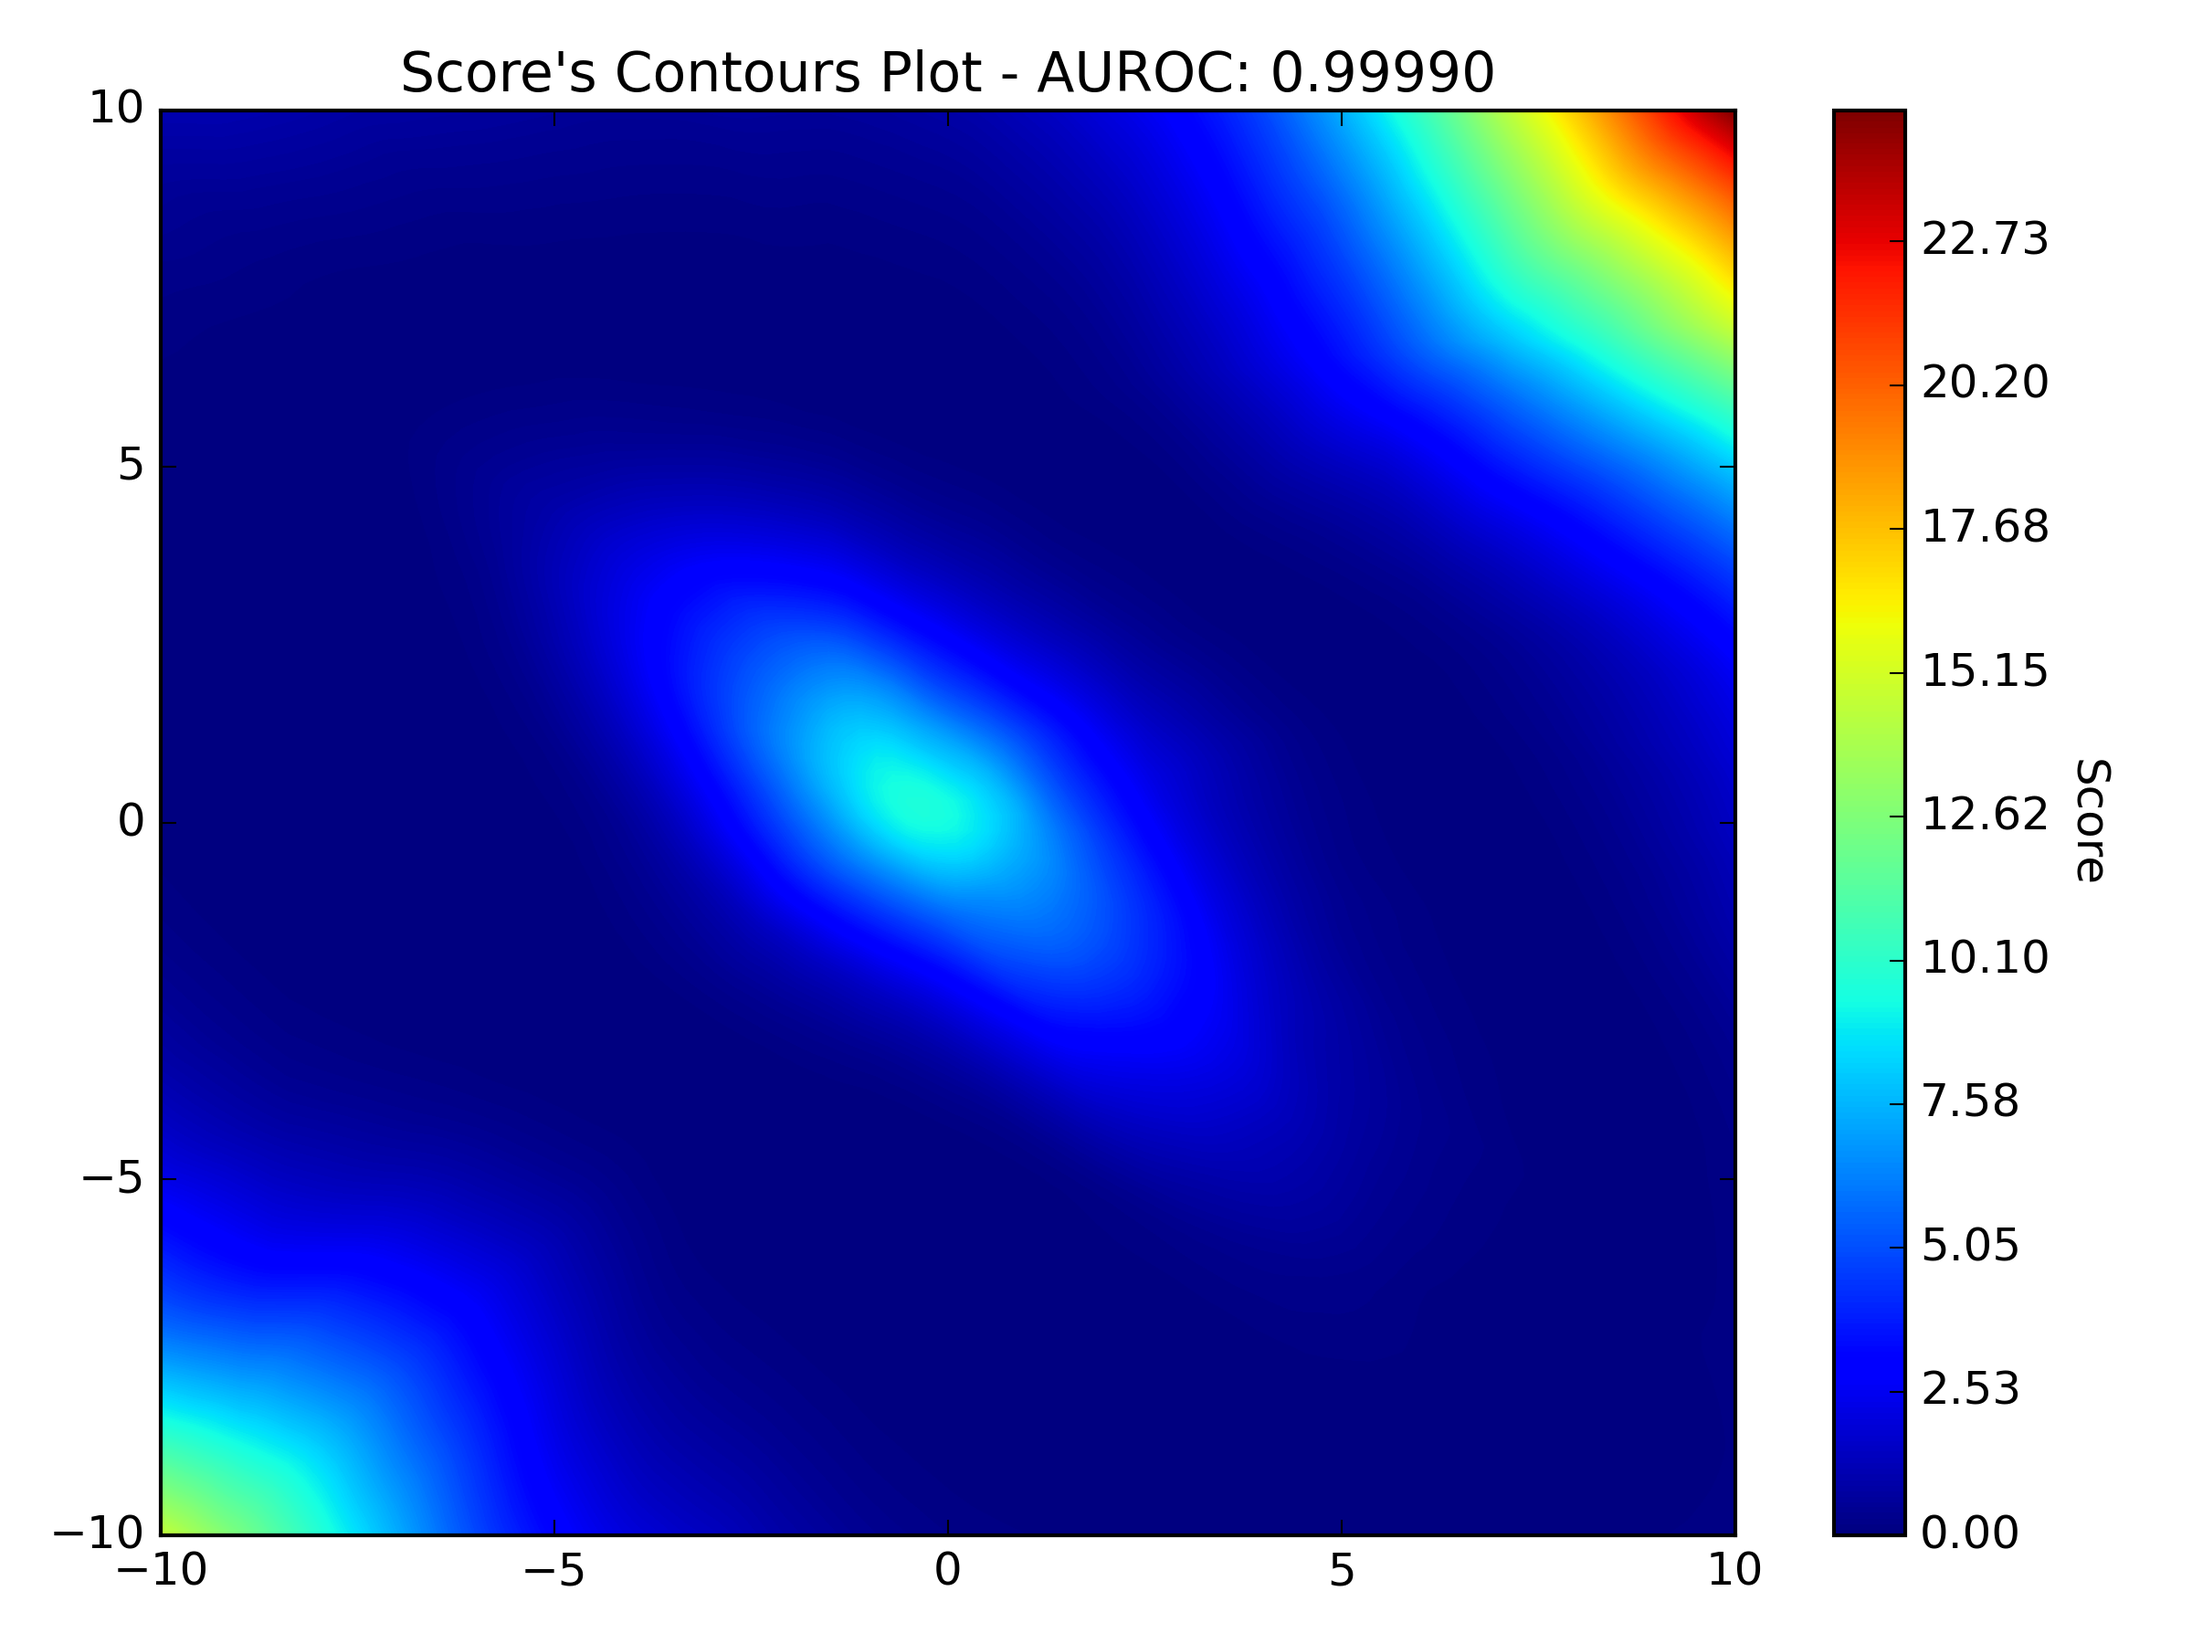
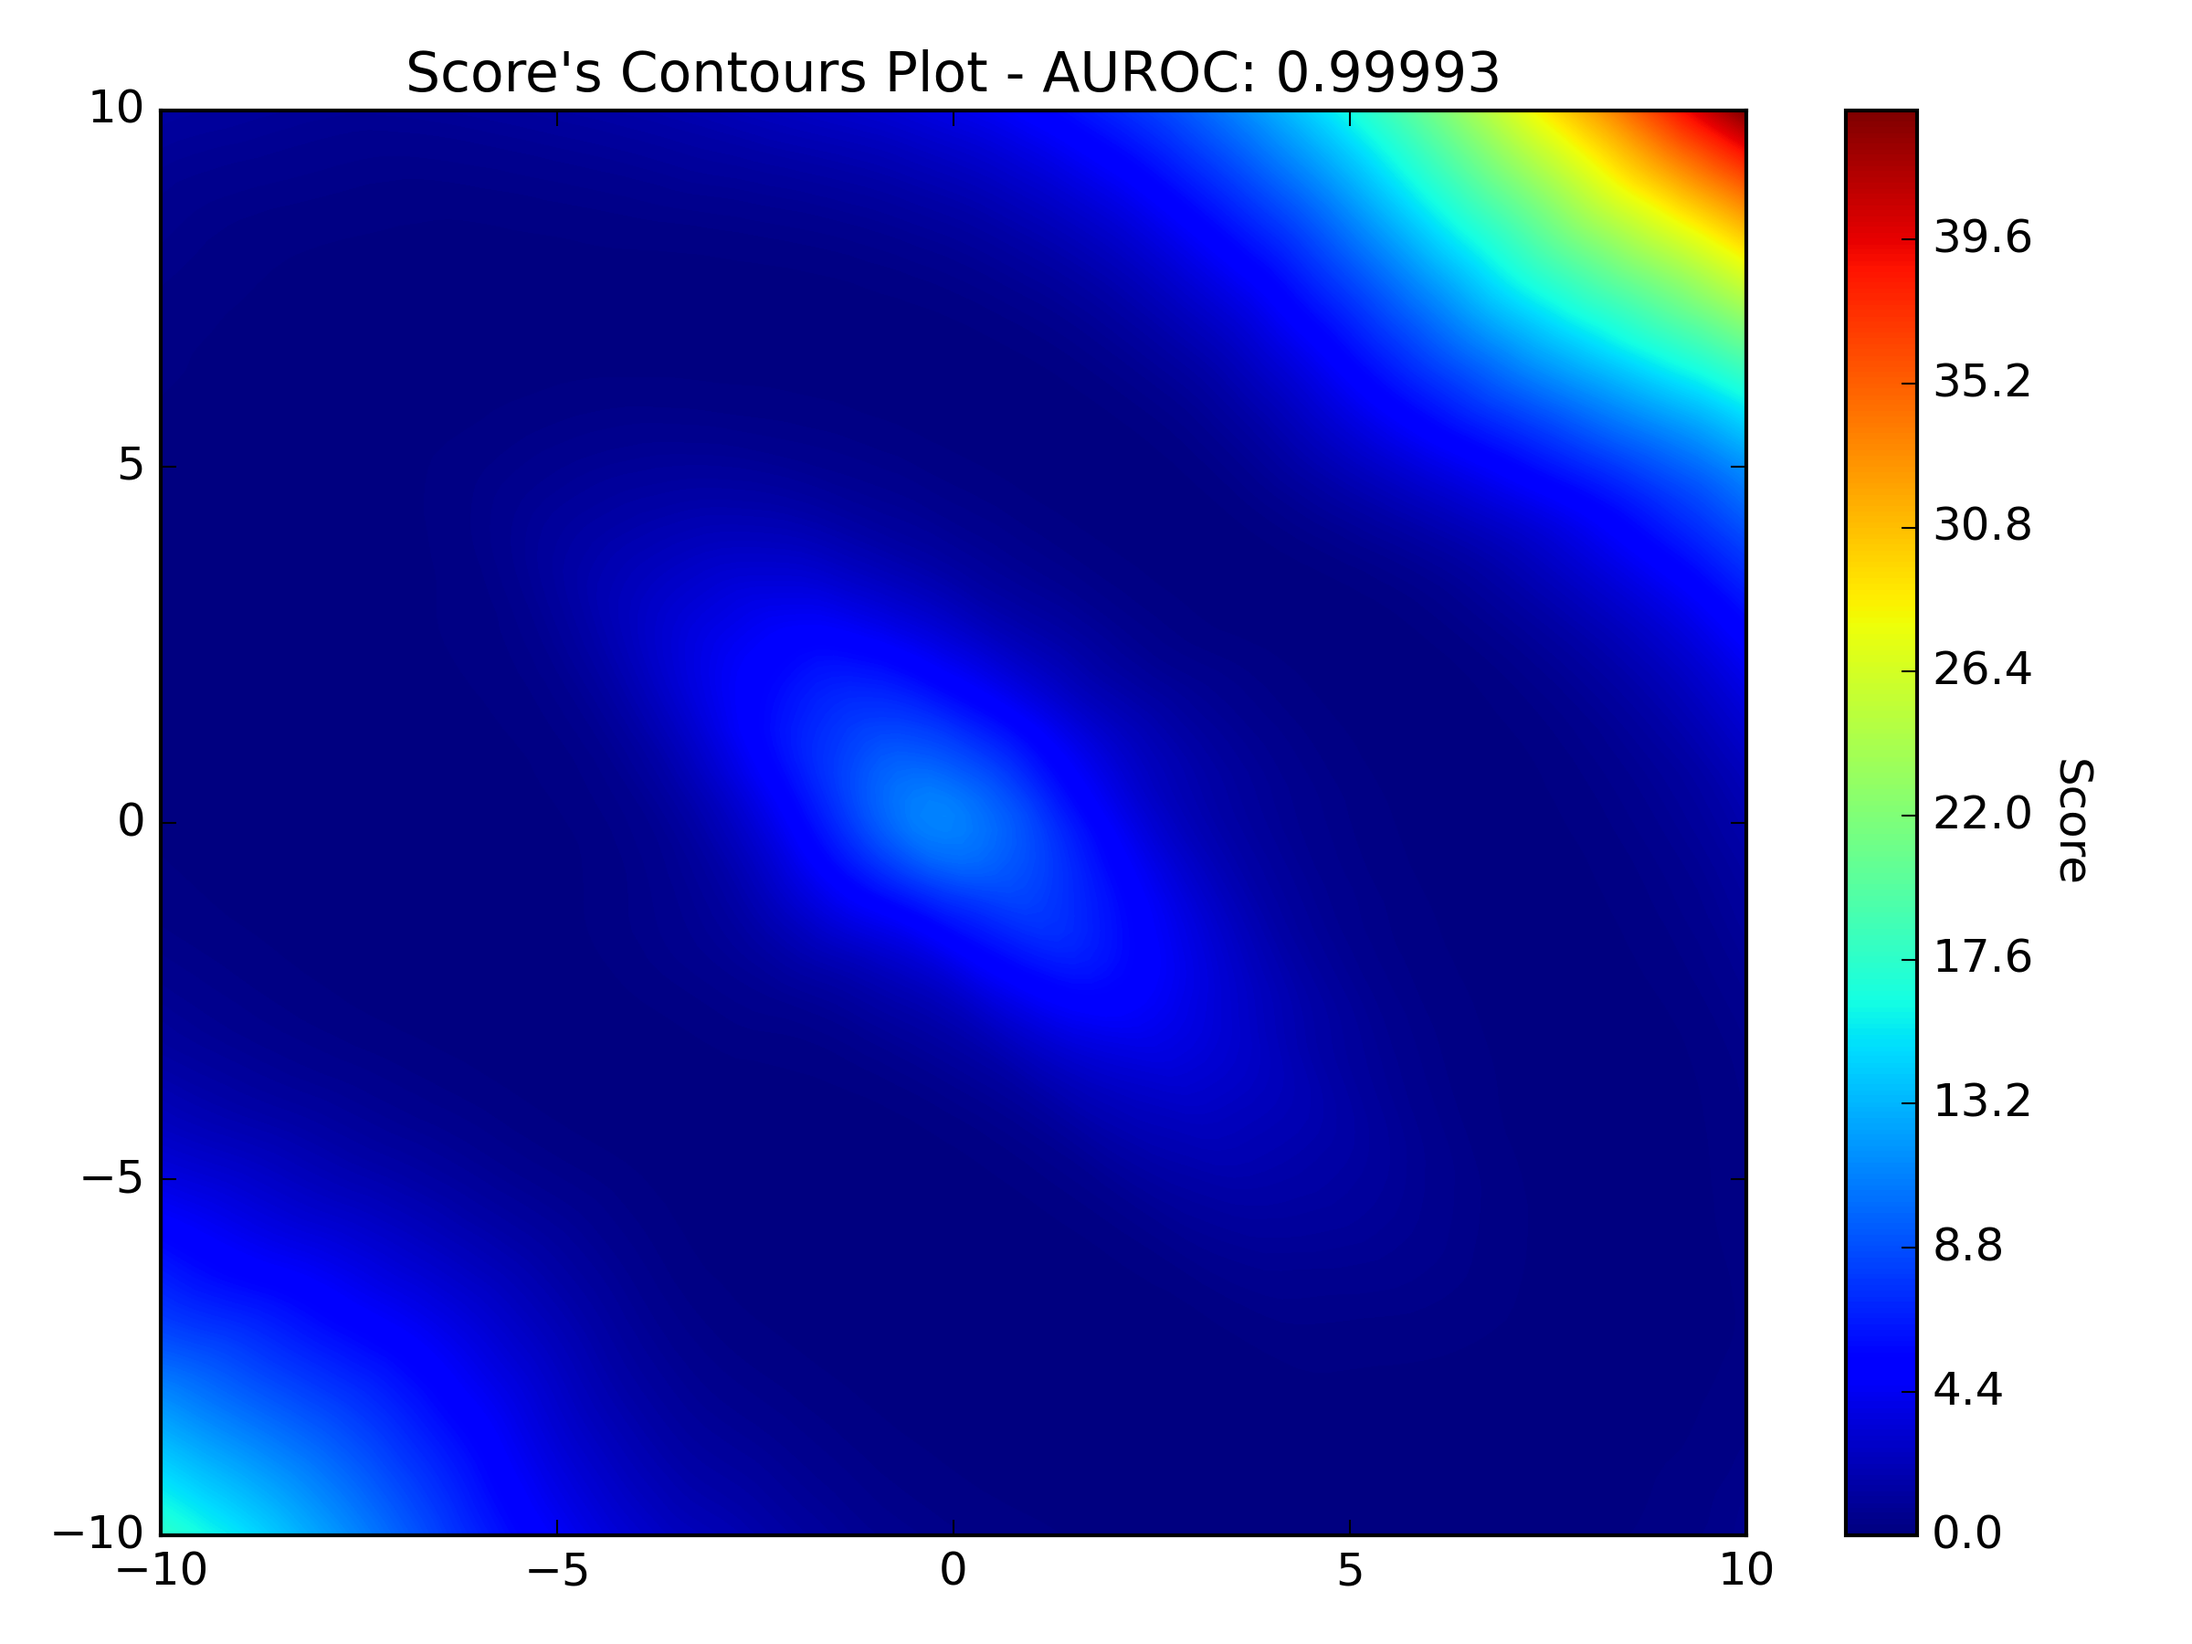
Fix data separation, add new experiments

diff --git a/deep-semisup-anom-det/data.py b/deep-semisup-anom-det/data.py
@@ -64,15 +64,13 @@ def get_loaders(dataset='gaussian'):
         train_ds = CustomDataset(train_samples, train_targets)
         test_ds = CustomDataset(test_samples, test_targets)
     else:
-        train_samples, train_targets, test_samples, test_targets = load_data(dataset, ratio_normal=1.0,
-                                                                             ratio_anomaly=0.0,
-                                                                             polution=0.0)
+        samples, targets, test_samples, test_targets = load_data(dataset, ratio_normal=0.01, ratio_anomaly=0.0)
 
-        train_ds = CustomDataset(train_samples, train_targets)
+        train_ds = CustomDataset(samples, targets)
         test_ds = CustomDataset(test_samples, test_targets)
 
-        if True:
-            utils.plot(train_samples, train_targets, 'train_samples', dataset)
+        if False:
+            utils.plot(samples, targets, 'train_samples', dataset)
             utils.plot(test_samples, test_targets, 'test_samples', dataset)
 
     train_loader = DataLoader(dataset=train_ds, batch_size=64, shuffle=True, drop_last=True, pin_memory=True,
@@ -87,41 +85,55 @@ def get_pretrain(dataset='gaussian'):
         samples, targets = gen_gaussian(n_samples=10000, ratio_normal=1.0)
         train_ds = CustomDataset(samples, targets)
     else:
-        train_samples, train_targets, _, _ = load_data(dataset, ratio_normal=1.0, ratio_anomaly=0.0, polution=0.0)
+        train_samples, train_targets, _, _ = load_data(dataset, ratio_normal=0.5, ratio_anomaly=0.0)
         train_ds = CustomDataset(train_samples, train_targets)
 
     pretrain_loader = DataLoader(dataset=train_ds, batch_size=64, shuffle=True, drop_last=True, pin_memory=True)
     return pretrain_loader
 
 
-def load_data(dataset_name, test_size=0.33, ratio_normal=1.0, ratio_anomaly=1.0, polution=0.0):
+def load_data(dataset_name, test_size=0.33, ratio_normal=0.5, ratio_anomaly=1.0, pollution=0.0):
+    """ Load data from json
+
+    Attributes:
+        dataset_name    name of the dataset in folder datasets
+        test_size       ratio of samples for testing
+        ratio_normal    ratio of the unlabeled data that is labeled as normal
+        ratio_anomaly   ratio of the normal data that is labeled as anomaly
+        pollution        not implemented
+    """
+
     with open(f'datasets/{dataset_name}.json') as json_file:
         data = json.load(json_file)
         normal = np.array(data['normal']).astype(np.float32)
         anomaly = np.array(data['anomaly']).astype(np.float32)
 
-        norm_train, norm_test = train_test_split(normal, test_size=test_size, random_state=42)
+        normal, norm_test = train_test_split(normal, test_size=test_size, random_state=42)
+        norm_train, unlabeled = train_test_split(normal, test_size=1 - ratio_normal, random_state=42)
         anom_train, anom_test = train_test_split(anomaly, test_size=test_size, random_state=42)
 
-        # Filter normals
-        indices = np.random.choice(norm_train.shape[0], size=int(norm_train.shape[0] * ratio_normal), replace=False)
-        norm_train = norm_train[indices]
+        # Set amount of anomalies given ratio
+        amount_anom = int(norm_train.shape[0] * ratio_anomaly)
+        assert amount_anom < anomaly.shape[0], 'anomaly ratio error'
+        indexes = np.random.choice(anom_train.shape[0], size=amount_anom, replace=False)
+        anom_train = anom_train[indexes]
+
+        # Define targets for unlabeled, normal, and anomaly
+        unlabeled_train_targets = np.zeros(unlabeled.shape[0]).astype(np.int)
         norm_train_targets = np.ones(norm_train.shape[0]).astype(np.int)
-
-        # Filter anomalies
-        indices = np.random.choice(anom_train.shape[0], size=int(anom_train.shape[0] * ratio_anomaly), replace=False)
-        anom_train = anom_train[indices]
-        anom_train_targets = np.ones(anom_train.shape[0]).astype(np.int) * -1
-
-        train_samples = np.concatenate((norm_train, anom_train))
-        train_targets = np.concatenate((norm_train_targets, anom_train_targets))
-
-        test_samples = np.concatenate((norm_test, anom_test))
         norm_test_targets = np.ones(norm_test.shape[0]).astype(np.int)
+        anom_train_targets = np.ones(anom_train.shape[0]).astype(np.int) * -1
         anom_test_targets = np.ones(anom_test.shape[0]).astype(np.int) * -1
+
+        # Concatenate data
+        train_samples = np.concatenate((unlabeled, norm_train, anom_train))
+        train_targets = np.concatenate((unlabeled_train_targets, norm_train_targets, anom_train_targets))
+        test_samples = np.concatenate((norm_test, anom_test))
         test_targets = np.concatenate((norm_test_targets, anom_test_targets))
 
-        print(f'Training: {norm_train.shape[0]} normal, and {anom_train.shape[0]} anomaly samples')
-        print(f'Testing: {norm_test.shape[0]} normal, and {anom_test.shape[0]} anomaly samples')
+        print(f'Training: {unlabeled.shape[0]} unlabeled, {norm_train.shape[0]} normal, '
+              f'and {anom_train.shape[0]} anomaly samples')
+        print(f'Testing:  {norm_test.shape[0]} normal,'
+              f' and {anom_test.shape[0]} anomaly samples')
 
         return train_samples, train_targets, test_samples, test_targets

diff --git a/deep-semisup-anom-det/utils.py b/deep-semisup-anom-det/utils.py
@@ -160,13 +160,30 @@ def scores_landscape(net, train_samples, c, min_input=-10, max_input=10, size=51
 
 
 def plot(samples, targets, file, dataset):
+    n_unlab, n_norm, n_anom = 0, 0, 0
+    for i in range(targets.shape[0]):
+        if targets[i] == -1:
+            n_anom += 1
+        elif targets[i] == 0:
+            n_unlab += 1
+        else:
+            n_norm += 1
+
     cdict = {-1: 'red', 0: 'grey', 1: 'blue'}
     fig, ax = plt.subplots(figsize=(8, 6), dpi=300)
+    ax.set_title(f"# unlabeled: {n_unlab}, # normal: {n_norm}, # anomaly: {n_anom}")
+
     for g in np.unique(targets):
-        label = 'Normal' if g == 1 else 'Anomaly'
+        if g == -1:
+            label = 'Anomaly'
+        elif g == 0:
+            label = 'Unlabeled'
+        else:
+            label = "Normal"
+
         ix = np.where(targets == g)
         ax.scatter(samples[ix, 0], samples[ix, 1], c=cdict[g], label=label, s=30, linewidth=0.4)
-    ax.legend(loc='lower center', ncol=2, bbox_to_anchor=(0.5, -0.15))
+    ax.legend(loc='lower center', ncol=3, bbox_to_anchor=(0.5, -0.15))
     plt.xlim([-10, 10])
     plt.ylim([-10, 10])
     plt.tight_layout()

diff --git a/deep-semisup-anom-det/main.py b/deep-semisup-anom-det/main.py
@@ -46,9 +46,6 @@ def train(net, loader, c, epochs=1, eta=1.0, eps=1e-9):
 
     net.train()
     for epoch in range(epochs):
-        if epoch in milestones:
-            print()
-
         epoch_loss = 0.0
         n_batches = 0
         epoch_start_time = time.time()
@@ -64,9 +61,13 @@ def train(net, loader, c, epochs=1, eta=1.0, eps=1e-9):
             loss.backward()
             opt.step()
 
-            scheduler.step()
             epoch_loss += loss.item()
             n_batches += 1
+
+            scheduler.step()
+
+        if epoch in milestones:
+            print(f'Adjusted learning rate: {float(scheduler.get_last_lr()[0]):3}')
 
         # log epoch statistics
         epoch_train_time = time.time() - epoch_start_time

diff --git a/deep-semisup-anom-det/README.md b/deep-semisup-anom-det/README.md
@@ -5,10 +5,10 @@ Data generated with https://github.com/Willtl/ml-stuff/tree/main/mouse-data-gen
   
 Dataset  |                            Unsupervised                             |  Semi-Supervised (1% of labeled anomalies)                    
 :----:|:-------------------------------------------------------------------:|:----:
-<img src="results/dataset1/test_samples.png" width="300" /> | <img src="results/dataset1/scores_contour_unsup.png" width="300" /> | <img src="results/dataset1/scores_contour.png" width="300" />
- <img src="results/dataset2/test_samples.png" width="300" /> | <img src="results/dataset2/scores_contour_unsup.png" width="300" /> | <img src="results/dataset2/scores_contour.png" width="300" />        
-<img src="results/dataset3/test_samples.png" width="300" /> | <img src="results/dataset3/scores_contour_unsup.png" width="300" /> | <img src="results/dataset3/scores_contour.png" width="300" />
-<img src="results/dataset4/test_samples.png" width="300" /> | <img src="results/dataset4/scores_contour_unsup.png" width="300" /> | <img src="results/dataset4/scores_contour.png" width="300" />
-<img src="results/dataset5/test_samples.png" width="300" /> | <img src="results/dataset5/scores_contour_unsup.png" width="300" /> | <img src="results/dataset5/scores_contour.png" width="300" />
-<img src="results/dataset6/test_samples.png" width="300" /> | <img src="results/dataset6/scores_contour_unsup.png" width="300" /> | <img src="results/dataset6/scores_contour.png" width="300" />
-<img src="results/dataset7/test_samples.png" width="300" /> | <img src="results/dataset7/scores_contour_unsup.png" width="300" /> | <img src="results/dataset7/scores_contour.png" width="300" />
+<img src="results/dataset1/train_samples.png" width="300" /> | <img src="results/dataset1/scores_contour_unsup.png" width="300" /> | <img src="results/dataset1/scores_contour.png" width="300" />
+ <img src="results/dataset2/train_samples.png" width="300" /> | <img src="results/dataset2/scores_contour_unsup.png" width="300" /> | <img src="results/dataset2/scores_contour.png" width="300" />        
+<img src="results/dataset3/train_samples.png" width="300" /> | <img src="results/dataset3/scores_contour_unsup.png" width="300" /> | <img src="results/dataset3/scores_contour.png" width="300" />
+<img src="results/dataset4/train_samples.png" width="300" /> | <img src="results/dataset4/scores_contour_unsup.png" width="300" /> | <img src="results/dataset4/scores_contour.png" width="300" />
+<img src="results/dataset5/train_samples.png" width="300" /> | <img src="results/dataset5/scores_contour_unsup.png" width="300" /> | <img src="results/dataset5/scores_contour.png" width="300" />
+<img src="results/dataset6/train_samples.png" width="300" /> | <img src="results/dataset6/scores_contour_unsup.png" width="300" /> | <img src="results/dataset6/scores_contour.png" width="300" />
+<img src="results/dataset7/train_samples.png" width="300" /> | <img src="results/dataset7/scores_contour_unsup.png" width="300" /> | <img src="results/dataset7/scores_contour.png" width="300" />
